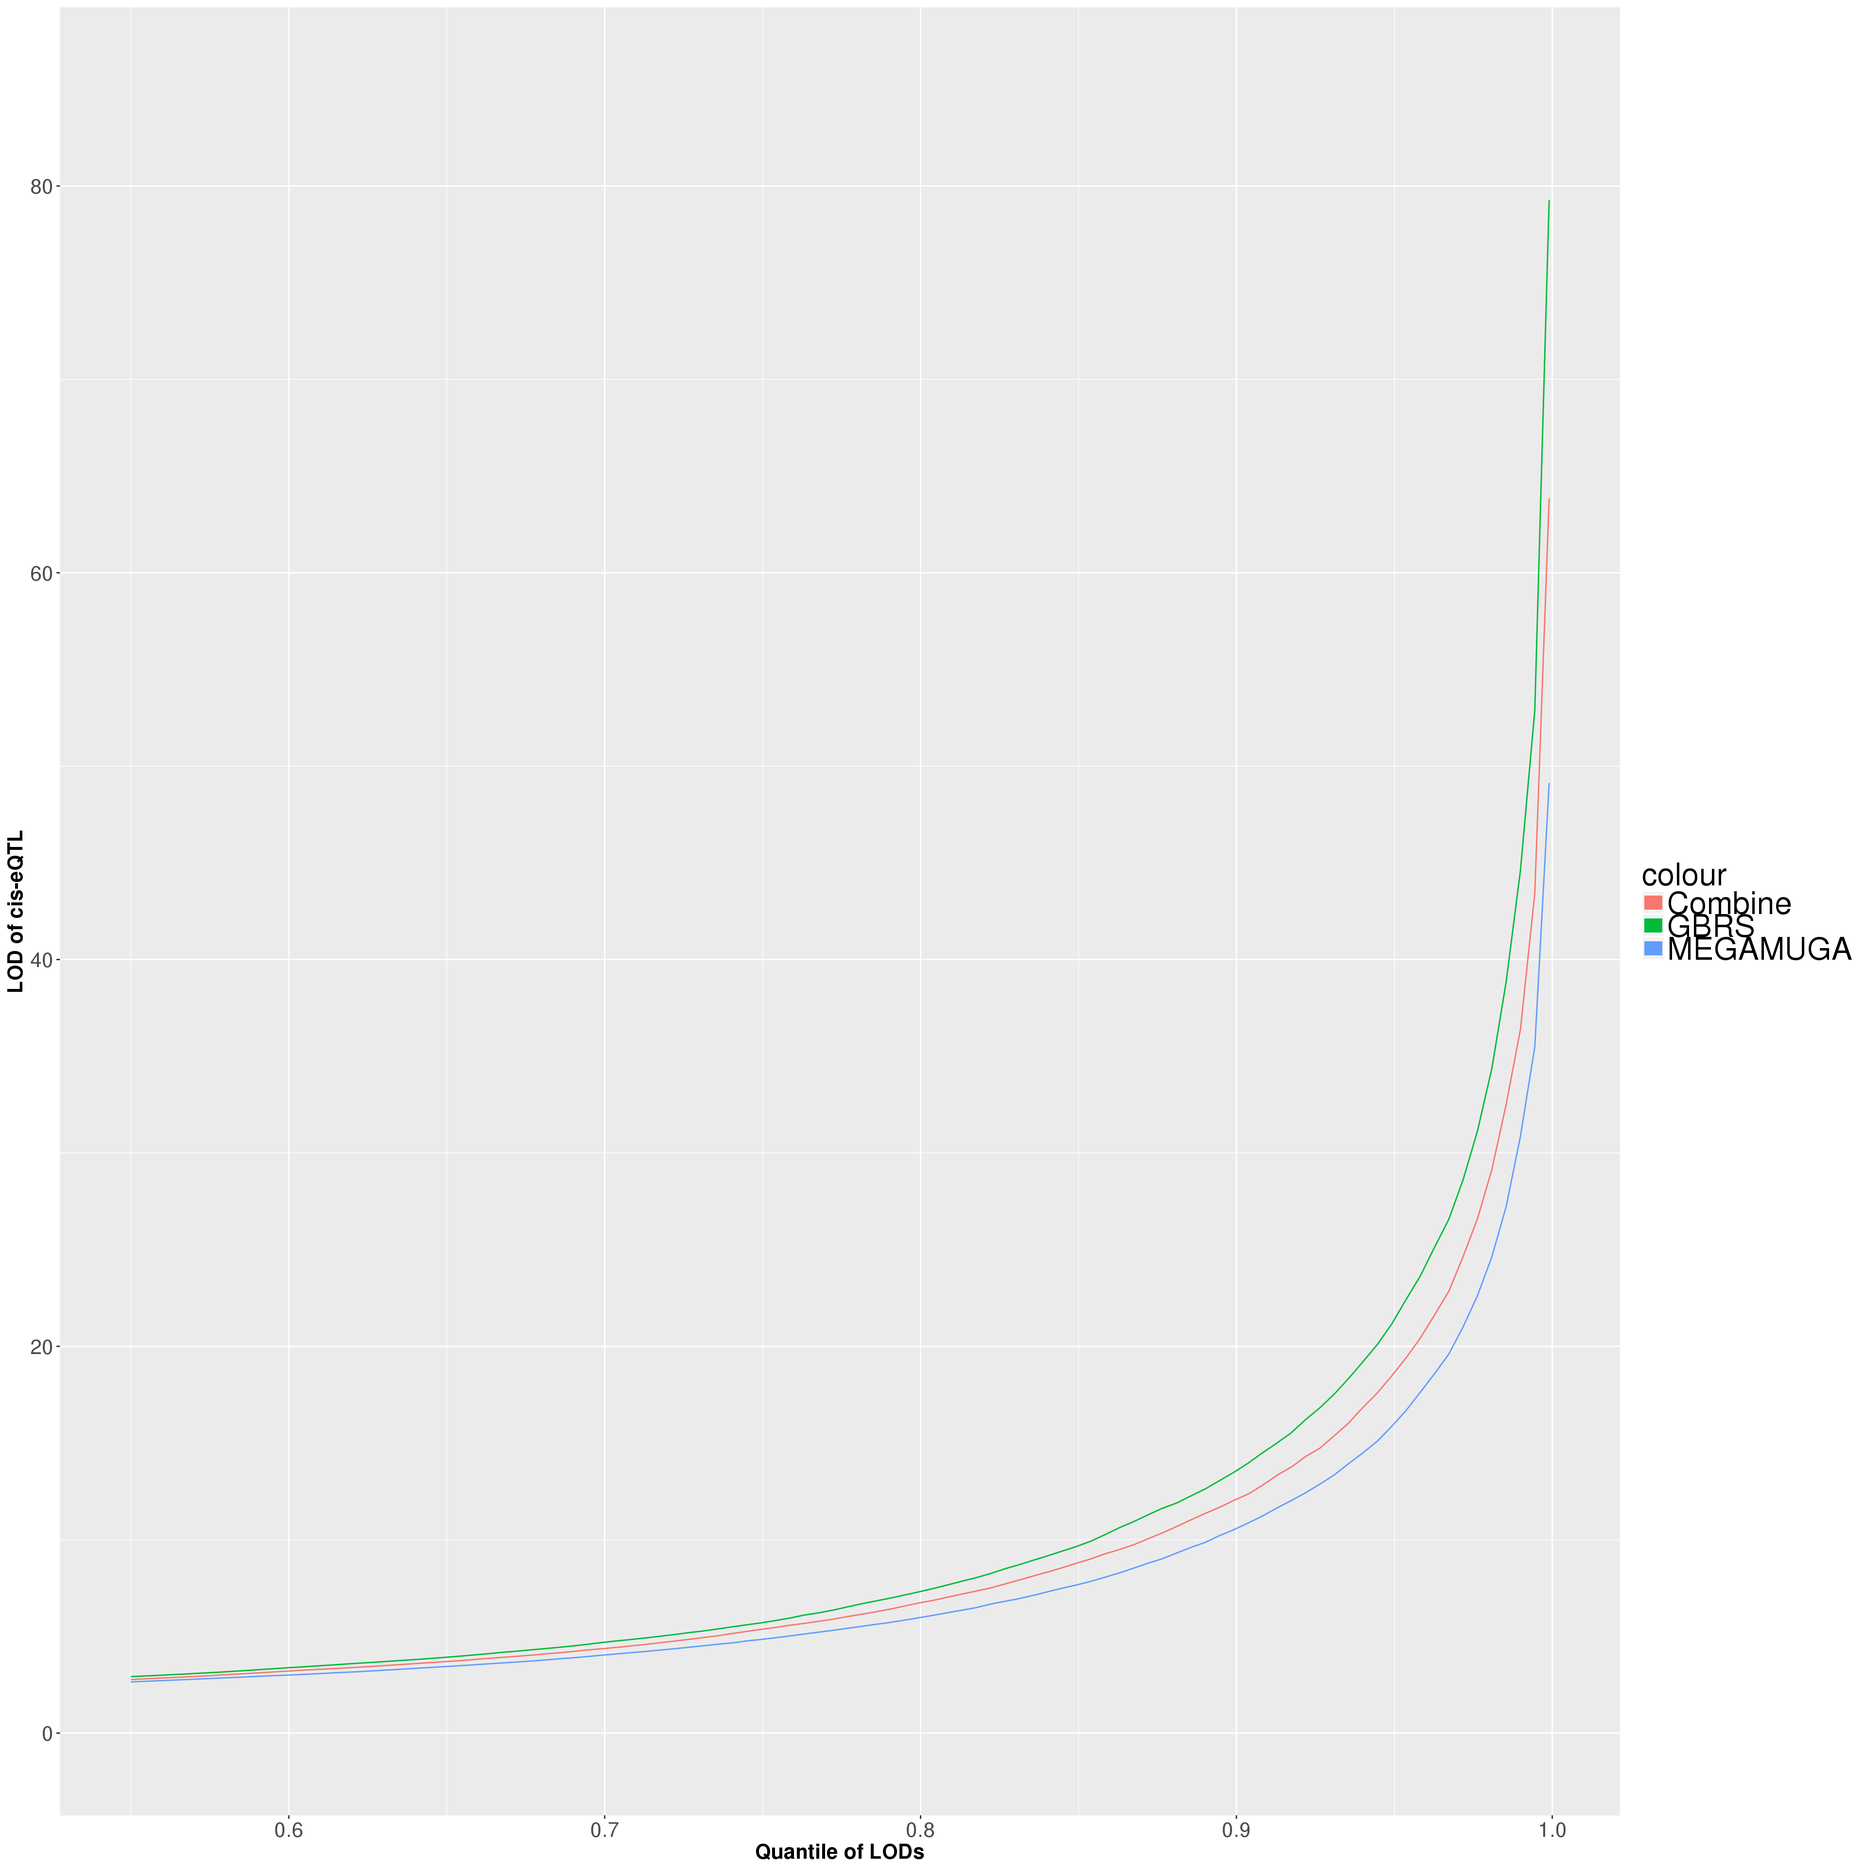
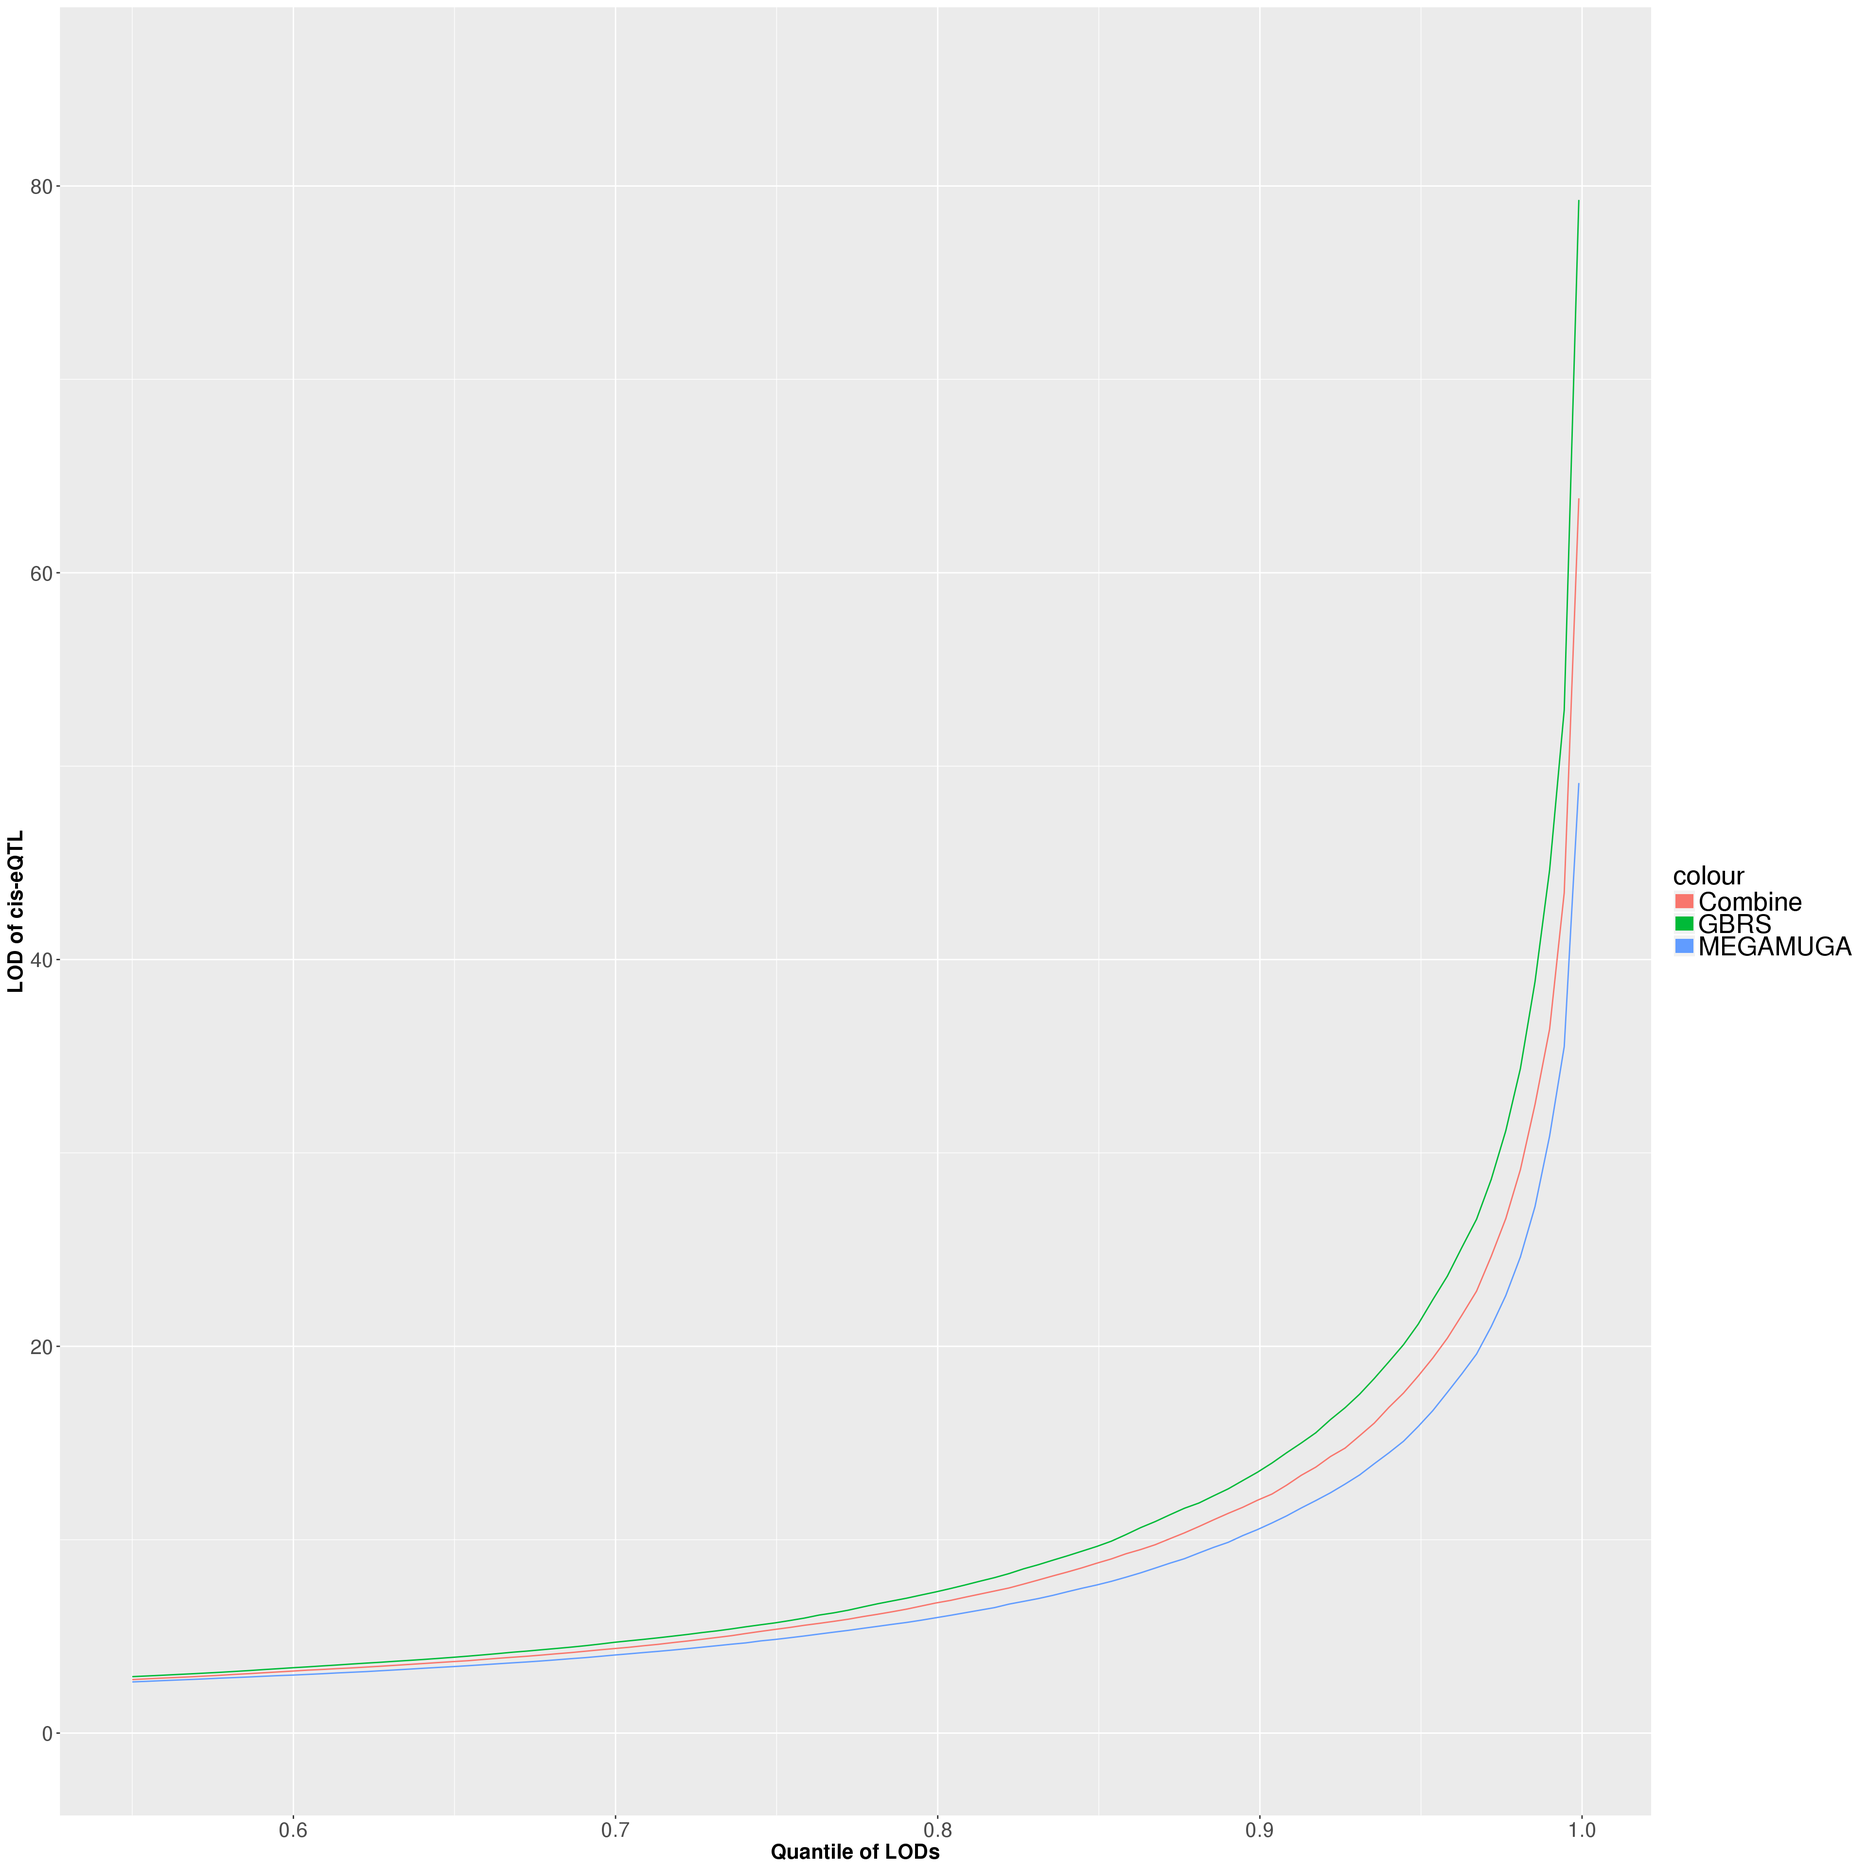
Build site.

diff --git a/docs/Cis-eQTL.html b/docs/Cis-eQTL.html
@@ -342,7 +342,7 @@ div.section {
 </details>
 </li>
 <li>
-<p><details> <summary> <strong style="color:blue;">✔</strong> <strong>Repository version:</strong> <a href="https://github.com/xhyuo/Workflowr_GBRS_array/tree/11d326d30a1edb64351e38498f29e881eb03c629" target="_blank">11d326d</a> </summary></p>
+<p><details> <summary> <strong style="color:blue;">✔</strong> <strong>Repository version:</strong> <a href="https://github.com/xhyuo/Workflowr_GBRS_array/tree/e015989d7523dc7e3583e9c2649d26b8f9cae1ab" target="_blank">e015989</a> </summary></p>
 Great! You are using Git for version control. Tracking code development and connecting the code version to the results is critical for reproducibility. The version displayed above was the version of the Git repository at the time these results were generated. <br><br> Note that you need to be careful to ensure that all relevant files for the analysis have been committed to Git prior to generating the results (you can use <code>wflow_publish</code> or <code>wflow_git_commit</code>). workflowr only checks the R Markdown file, but you know if there are other scripts or data files that it depends on. Below is the status of the Git repository when the results were generated:
 <pre><code>
 Ignored files:
@@ -385,6 +385,40 @@ Message
 </tr>
 </thead>
 <tbody>
+<tr>
+<td style="text-align:left;">
+Rmd
+</td>
+<td style="text-align:left;">
+<a href="https://github.com/xhyuo/Workflowr_GBRS_array/blob/e015989d7523dc7e3583e9c2649d26b8f9cae1ab/analysis/Cis-eQTL.Rmd" target="_blank">e015989</a>
+</td>
+<td style="text-align:left;">
+xhyuo
+</td>
+<td style="text-align:left;">
+2018-11-07
+</td>
+<td style="text-align:left;">
+update building
+</td>
+</tr>
+<tr>
+<td style="text-align:left;">
+html
+</td>
+<td style="text-align:left;">
+<a href="https://cdn.rawgit.com/xhyuo/Workflowr_GBRS_array/34357f81b8fc03e2868ab6a6d3eeffcae989c0bd/docs/Cis-eQTL.html" target="_blank">34357f8</a>
+</td>
+<td style="text-align:left;">
+xhyuo
+</td>
+<td style="text-align:left;">
+2018-11-07
+</td>
+<td style="text-align:left;">
+Build site.
+</td>
+</tr>
 <tr>
 <td style="text-align:left;">
 Rmd
@@ -578,6 +612,17 @@ Date
 <tbody>
 <tr>
 <td style="text-align:left;">
+<a href="https://github.com/xhyuo/Workflowr_GBRS_array/blob/34357f81b8fc03e2868ab6a6d3eeffcae989c0bd/docs/figure/Cis-eQTL.Rmd/Cis-eQTL between MUGA282 and GBRS282-1.png" target="_blank">34357f8</a>
+</td>
+<td style="text-align:left;">
+xhyuo
+</td>
+<td style="text-align:left;">
+2018-11-07
+</td>
+</tr>
+<tr>
+<td style="text-align:left;">
 <a href="https://github.com/xhyuo/Workflowr_GBRS_array/blob/68ba02d4ac51541f4d88098cb1312b8452074164/docs/figure/Cis-eQTL.Rmd/Cis-eQTL between MUGA282 and GBRS282-1.png" target="_blank">68ba02d</a>
 </td>
 <td style="text-align:left;">
@@ -619,6 +664,17 @@ Date
 </tr>
 </thead>
 <tbody>
+<tr>
+<td style="text-align:left;">
+<a href="https://github.com/xhyuo/Workflowr_GBRS_array/blob/34357f81b8fc03e2868ab6a6d3eeffcae989c0bd/docs/figure/Cis-eQTL.Rmd/Cis-eQTL between MUGA282 and GBRS282-2.png" target="_blank">34357f8</a>
+</td>
+<td style="text-align:left;">
+xhyuo
+</td>
+<td style="text-align:left;">
+2018-11-07
+</td>
+</tr>
 <tr>
 <td style="text-align:left;">
 <a href="https://github.com/xhyuo/Workflowr_GBRS_array/blob/68ba02d4ac51541f4d88098cb1312b8452074164/docs/figure/Cis-eQTL.Rmd/Cis-eQTL between MUGA282 and GBRS282-2.png" target="_blank">68ba02d</a>
@@ -664,6 +720,17 @@ Date
 <tbody>
 <tr>
 <td style="text-align:left;">
+<a href="https://github.com/xhyuo/Workflowr_GBRS_array/blob/34357f81b8fc03e2868ab6a6d3eeffcae989c0bd/docs/figure/Cis-eQTL.Rmd/Cis-eQTL between MUGA282 and GBRS282-3.png" target="_blank">34357f8</a>
+</td>
+<td style="text-align:left;">
+xhyuo
+</td>
+<td style="text-align:left;">
+2018-11-07
+</td>
+</tr>
+<tr>
+<td style="text-align:left;">
 <a href="https://github.com/xhyuo/Workflowr_GBRS_array/blob/68ba02d4ac51541f4d88098cb1312b8452074164/docs/figure/Cis-eQTL.Rmd/Cis-eQTL between MUGA282 and GBRS282-3.png" target="_blank">68ba02d</a>
 </td>
 <td style="text-align:left;">
@@ -707,6 +774,17 @@ Date
 <tbody>
 <tr>
 <td style="text-align:left;">
+<a href="https://github.com/xhyuo/Workflowr_GBRS_array/blob/34357f81b8fc03e2868ab6a6d3eeffcae989c0bd/docs/figure/Cis-eQTL.Rmd/Cis-eQTL between MUGA282 and GBRS282-4.png" target="_blank">34357f8</a>
+</td>
+<td style="text-align:left;">
+xhyuo
+</td>
+<td style="text-align:left;">
+2018-11-07
+</td>
+</tr>
+<tr>
+<td style="text-align:left;">
 <a href="https://github.com/xhyuo/Workflowr_GBRS_array/blob/68ba02d4ac51541f4d88098cb1312b8452074164/docs/figure/Cis-eQTL.Rmd/Cis-eQTL between MUGA282 and GBRS282-4.png" target="_blank">68ba02d</a>
 </td>
 <td style="text-align:left;">
@@ -748,6 +826,17 @@ Date
 </tr>
 </thead>
 <tbody>
+<tr>
+<td style="text-align:left;">
+<a href="https://github.com/xhyuo/Workflowr_GBRS_array/blob/34357f81b8fc03e2868ab6a6d3eeffcae989c0bd/docs/figure/Cis-eQTL.Rmd/Cis-eQTL between MUGA282 and GBRS282-5.png" target="_blank">34357f8</a>
+</td>
+<td style="text-align:left;">
+xhyuo
+</td>
+<td style="text-align:left;">
+2018-11-07
+</td>
+</tr>
 <tr>
 <td style="text-align:left;">
 <a href="https://github.com/xhyuo/Workflowr_GBRS_array/blob/68ba02d4ac51541f4d88098cb1312b8452074164/docs/figure/Cis-eQTL.Rmd/Cis-eQTL between MUGA282 and GBRS282-5.png" target="_blank">68ba02d</a>
@@ -824,7 +913,7 @@ for (sg in sigma){
   xlab(&quot;Quantile of LODs&quot;) +
   ylab(&quot;LOD of cis-eQTL&quot;) +
   scale_y_continuous(limits=c(0, 85)) +
-  theme(plot.title = element_text(hjust = 0.5), legend.title=element_text(size=24),legend.text=element_text(size=24)) +
+  theme(plot.title = element_text(hjust = 0.5), legend.title=element_text(size=20),legend.text=element_text(size=20)) +
   theme(axis.text=element_text(size=16),axis.title=element_text(size=16,face=&quot;bold&quot;)) +
   guides(color = guide_legend(override.aes = list(size=5)))
 
@@ -848,6 +937,17 @@ Date
 </tr>
 </thead>
 <tbody>
+<tr>
+<td style="text-align:left;">
+<a href="https://github.com/xhyuo/Workflowr_GBRS_array/blob/34357f81b8fc03e2868ab6a6d3eeffcae989c0bd/docs/figure/Cis-eQTL.Rmd/Cis-eQTL between MEGAMUGA200 and GBRS200-1.png" target="_blank">34357f8</a>
+</td>
+<td style="text-align:left;">
+xhyuo
+</td>
+<td style="text-align:left;">
+2018-11-07
+</td>
+</tr>
 <tr>
 <td style="text-align:left;">
 <a href="https://github.com/xhyuo/Workflowr_GBRS_array/blob/68ba02d4ac51541f4d88098cb1312b8452074164/docs/figure/Cis-eQTL.Rmd/Cis-eQTL between MEGAMUGA200 and GBRS200-1.png" target="_blank">68ba02d</a>
@@ -893,6 +993,17 @@ Date
 <tbody>
 <tr>
 <td style="text-align:left;">
+<a href="https://github.com/xhyuo/Workflowr_GBRS_array/blob/34357f81b8fc03e2868ab6a6d3eeffcae989c0bd/docs/figure/Cis-eQTL.Rmd/Cis-eQTL between MEGAMUGA200 and GBRS200-2.png" target="_blank">34357f8</a>
+</td>
+<td style="text-align:left;">
+xhyuo
+</td>
+<td style="text-align:left;">
+2018-11-07
+</td>
+</tr>
+<tr>
+<td style="text-align:left;">
 <a href="https://github.com/xhyuo/Workflowr_GBRS_array/blob/68ba02d4ac51541f4d88098cb1312b8452074164/docs/figure/Cis-eQTL.Rmd/Cis-eQTL between MEGAMUGA200 and GBRS200-2.png" target="_blank">68ba02d</a>
 </td>
 <td style="text-align:left;">
@@ -934,6 +1045,17 @@ Date
 </tr>
 </thead>
 <tbody>
+<tr>
+<td style="text-align:left;">
+<a href="https://github.com/xhyuo/Workflowr_GBRS_array/blob/34357f81b8fc03e2868ab6a6d3eeffcae989c0bd/docs/figure/Cis-eQTL.Rmd/Cis-eQTL between MEGAMUGA200 and GBRS200-3.png" target="_blank">34357f8</a>
+</td>
+<td style="text-align:left;">
+xhyuo
+</td>
+<td style="text-align:left;">
+2018-11-07
+</td>
+</tr>
 <tr>
 <td style="text-align:left;">
 <a href="https://github.com/xhyuo/Workflowr_GBRS_array/blob/68ba02d4ac51541f4d88098cb1312b8452074164/docs/figure/Cis-eQTL.Rmd/Cis-eQTL between MEGAMUGA200 and GBRS200-3.png" target="_blank">68ba02d</a>
@@ -979,6 +1101,17 @@ Date
 <tbody>
 <tr>
 <td style="text-align:left;">
+<a href="https://github.com/xhyuo/Workflowr_GBRS_array/blob/34357f81b8fc03e2868ab6a6d3eeffcae989c0bd/docs/figure/Cis-eQTL.Rmd/Cis-eQTL between MEGAMUGA200 and GBRS200-4.png" target="_blank">34357f8</a>
+</td>
+<td style="text-align:left;">
+xhyuo
+</td>
+<td style="text-align:left;">
+2018-11-07
+</td>
+</tr>
+<tr>
+<td style="text-align:left;">
 <a href="https://github.com/xhyuo/Workflowr_GBRS_array/blob/68ba02d4ac51541f4d88098cb1312b8452074164/docs/figure/Cis-eQTL.Rmd/Cis-eQTL between MEGAMUGA200 and GBRS200-4.png" target="_blank">68ba02d</a>
 </td>
 <td style="text-align:left;">
@@ -1020,6 +1153,17 @@ Date
 </tr>
 </thead>
 <tbody>
+<tr>
+<td style="text-align:left;">
+<a href="https://github.com/xhyuo/Workflowr_GBRS_array/blob/34357f81b8fc03e2868ab6a6d3eeffcae989c0bd/docs/figure/Cis-eQTL.Rmd/Cis-eQTL between MEGAMUGA200 and GBRS200-5.png" target="_blank">34357f8</a>
+</td>
+<td style="text-align:left;">
+xhyuo
+</td>
+<td style="text-align:left;">
+2018-11-07
+</td>
+</tr>
 <tr>
 <td style="text-align:left;">
 <a href="https://github.com/xhyuo/Workflowr_GBRS_array/blob/68ba02d4ac51541f4d88098cb1312b8452074164/docs/figure/Cis-eQTL.Rmd/Cis-eQTL between MEGAMUGA200 and GBRS200-5.png" target="_blank">68ba02d</a>
@@ -1105,6 +1249,17 @@ Date
 </tr>
 </thead>
 <tbody>
+<tr>
+<td style="text-align:left;">
+<a href="https://github.com/xhyuo/Workflowr_GBRS_array/blob/34357f81b8fc03e2868ab6a6d3eeffcae989c0bd/docs/figure/Cis-eQTL.Rmd/Cis-eQTL between GIGAMUGA369 and GBRS369-1.png" target="_blank">34357f8</a>
+</td>
+<td style="text-align:left;">
+xhyuo
+</td>
+<td style="text-align:left;">
+2018-11-07
+</td>
+</tr>
 <tr>
 <td style="text-align:left;">
 <a href="https://github.com/xhyuo/Workflowr_GBRS_array/blob/cff81384f5ae846ec1bef09234bf6f84ffb74baa/docs/figure/Cis-eQTL.Rmd/Cis-eQTL between GIGAMUGA369 and GBRS369-1.png" target="_blank">cff8138</a>

diff --git a/docs/license.html b/docs/license.html
@@ -225,7 +225,7 @@ div.section {
 </details>
 </li>
 <li>
-<p><details> <summary> <strong style="color:blue;">✔</strong> <strong>Repository version:</strong> <a href="https://github.com/xhyuo/Workflowr_GBRS_array/tree/11d326d30a1edb64351e38498f29e881eb03c629" target="_blank">11d326d</a> </summary></p>
+<p><details> <summary> <strong style="color:blue;">✔</strong> <strong>Repository version:</strong> <a href="https://github.com/xhyuo/Workflowr_GBRS_array/tree/e015989d7523dc7e3583e9c2649d26b8f9cae1ab" target="_blank">e015989</a> </summary></p>
 Great! You are using Git for version control. Tracking code development and connecting the code version to the results is critical for reproducibility. The version displayed above was the version of the Git repository at the time these results were generated. <br><br> Note that you need to be careful to ensure that all relevant files for the analysis have been committed to Git prior to generating the results (you can use <code>wflow_publish</code> or <code>wflow_git_commit</code>). workflowr only checks the R Markdown file, but you know if there are other scripts or data files that it depends on. Below is the status of the Git repository when the results were generated:
 <pre><code>
 Ignored files:
@@ -268,6 +268,23 @@ Message
 </tr>
 </thead>
 <tbody>
+<tr>
+<td style="text-align:left;">
+html
+</td>
+<td style="text-align:left;">
+<a href="https://cdn.rawgit.com/xhyuo/Workflowr_GBRS_array/34357f81b8fc03e2868ab6a6d3eeffcae989c0bd/docs/license.html" target="_blank">34357f8</a>
+</td>
+<td style="text-align:left;">
+xhyuo
+</td>
+<td style="text-align:left;">
+2018-11-07
+</td>
+<td style="text-align:left;">
+Build site.
+</td>
+</tr>
 <tr>
 <td style="text-align:left;">
 html

diff --git a/docs/index.html b/docs/index.html
@@ -225,7 +225,7 @@ div.section {
 </details>
 </li>
 <li>
-<p><details> <summary> <strong style="color:blue;">✔</strong> <strong>Repository version:</strong> <a href="https://github.com/xhyuo/Workflowr_GBRS_array/tree/11d326d30a1edb64351e38498f29e881eb03c629" target="_blank">11d326d</a> </summary></p>
+<p><details> <summary> <strong style="color:blue;">✔</strong> <strong>Repository version:</strong> <a href="https://github.com/xhyuo/Workflowr_GBRS_array/tree/e015989d7523dc7e3583e9c2649d26b8f9cae1ab" target="_blank">e015989</a> </summary></p>
 Great! You are using Git for version control. Tracking code development and connecting the code version to the results is critical for reproducibility. The version displayed above was the version of the Git repository at the time these results were generated. <br><br> Note that you need to be careful to ensure that all relevant files for the analysis have been committed to Git prior to generating the results (you can use <code>wflow_publish</code> or <code>wflow_git_commit</code>). workflowr only checks the R Markdown file, but you know if there are other scripts or data files that it depends on. Below is the status of the Git repository when the results were generated:
 <pre><code>
 Ignored files:
@@ -268,6 +268,23 @@ Message
 </tr>
 </thead>
 <tbody>
+<tr>
+<td style="text-align:left;">
+html
+</td>
+<td style="text-align:left;">
+<a href="https://cdn.rawgit.com/xhyuo/Workflowr_GBRS_array/34357f81b8fc03e2868ab6a6d3eeffcae989c0bd/docs/index.html" target="_blank">34357f8</a>
+</td>
+<td style="text-align:left;">
+xhyuo
+</td>
+<td style="text-align:left;">
+2018-11-07
+</td>
+<td style="text-align:left;">
+Build site.
+</td>
+</tr>
 <tr>
 <td style="text-align:left;">
 html
